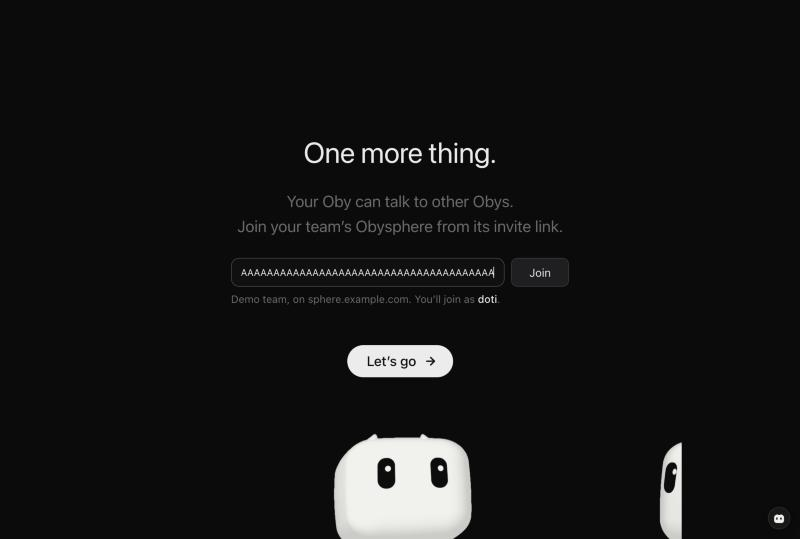
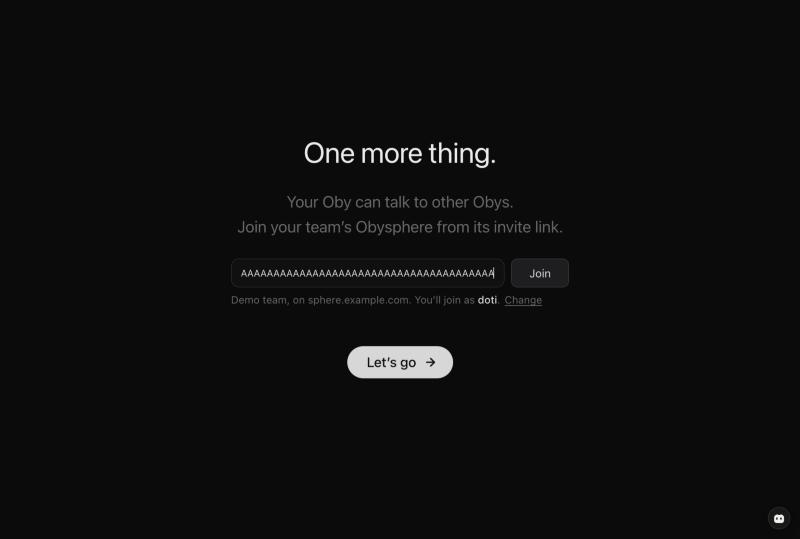
feat(electron): the owner id is changed before the first join, behind obid's PUT /v1/obid/sphere/owner (SPHEREAPP-9)
Two strangers whose Macs share a login name would join as the same
owner. The join line has Change while obid serves the add-only route
(asked once with an empty body, which changes nothing); where obid
answers 404 the id stays read-only. A 409 says it can't change once
joined; an id that isn't a slug says so and sends nothing.

diff --git a/apps/electron/src/renderer/src/JoinLink.tsx b/apps/electron/src/renderer/src/JoinLink.tsx
@@ -9,19 +9,76 @@ import { ME } from './spheres';
 // dialog included, signed with the app's key after the owner's click. Before any key is made the
 // owner id it will act for shows here, and again in main's dialog.
 
-// The owner id obid acts for now, or null until obid says (on the mock: the mock's own)
+// The owner id obid acts for now, or null until obid says (on the mock: the mock's own). editable:
+// obid has the route that changes it before a first join (PUT /v1/obid/sphere/owner, add-only):
+// asked once with an empty body, which changes nothing (422 where it's served, 404 where it isn't).
+// change: the owner's new id, kept by obid, or why not in words.
+const OWNER_ROUTE = '/v1/obid/sphere/owner';
+export const OWNER_ID = /^[a-z0-9]([a-z0-9-]{0,61}[a-z0-9])?$/;
 export function useOwnerId() {
   const [owner, setOwner] = useState<string | null>(onObid ? null : ME.name.toLowerCase());
+  const [editable, setEditable] = useState(!onObid);
   useEffect(() => {
     if (!onObid || !window.app?.obid) return;
     let gone = false;
-    void window.app.obid.call('GET', '/v1/obid/sphere').then((a) => {
+    const call = window.app.obid.call;
+    void call('GET', '/v1/obid/sphere').then((a) => {
       if (gone || a.status !== 200) return;
-      try { const o = (JSON.parse(a.text) as { owner?: unknown }).owner; if (typeof o === 'string' && o) setOwner(o); } catch { /* none shown */ }
+      try {
+        const m = JSON.parse(a.text) as { owner?: unknown; state?: unknown };
+        if (typeof m.owner === 'string' && m.owner) setOwner(m.owner);
+        // only before a first join; a membership keeps the owner it joined as
+        if (m.state === 'none') void call('PUT', OWNER_ROUTE, {}).then((p) => { if (!gone) setEditable(p.status !== 404 && p.status !== 405 && p.status !== 0); }, () => {});
+      } catch { /* none shown */ }
     }, () => {});
     return () => { gone = true; };
   }, []);
-  return owner;
+  const change = async (to: string): Promise<string | null> => {
+    const next = to.trim().toLowerCase();
+    if (!OWNER_ID.test(next)) return 'An owner id is lowercase letters, digits and hyphens.';
+    if (!onObid || !window.app?.obid) { setOwner(next); return null; }
+    const a = await window.app.obid.call('PUT', OWNER_ROUTE, { owner: next });
+    if (a.status >= 200 && a.status < 300) {
+      try { const o = (JSON.parse(a.text) as { owner?: unknown }).owner; setOwner(typeof o === 'string' && o ? o : next); } catch { setOwner(next); }
+      return null;
+    }
+    if (a.status === 409) { setEditable(false); return 'It can’t change once you’ve joined an Obysphere.'; }
+    if (a.status === 404) { setEditable(false); return 'This Oby can’t change it yet.'; }
+    try { return String((JSON.parse(a.text) as { error?: unknown }).error ?? '') || 'obid didn’t take it.'; } catch { return 'obid didn’t take it.'; }
+  };
+  return { owner, editable, change };
+}
+
+// The owner id a join acts for, with Change while obid can change it (SPHEREAPP-9)
+function OwnerLine({ who, invite }: { who: ReturnType<typeof useOwnerId>; invite: { name: string; host: string } }) {
+  const [editing, setEditing] = useState<string | null>(null);
+  const [problem, setProblem] = useState<string | null>(null);
+  const save = async () => {
+    if (editing === null) return;
+    const why = await who.change(editing);
+    setProblem(why);
+    if (!why) setEditing(null);
+  };
+  if (editing !== null) {
+    return <>
+      <span className="join-link-owner">
+        <span className="wl-sub">Join as</span>
+        <input className="modal-field setup-field" value={editing} autoFocus aria-label="Owner id" maxLength={63}
+          onChange={(e) => { setEditing(e.target.value); setProblem(null); }}
+          onKeyDown={(e) => { if (e.key === 'Enter') { e.preventDefault(); void save(); } if (e.key === 'Escape') { e.stopPropagation(); setEditing(null); setProblem(null); } }}
+          autoComplete="off" autoCapitalize="off" autoCorrect="off" spellCheck={false} />
+        <button type="button" className="set-button" onClick={() => void save()}>Save</button>
+      </span>
+      {problem && <span className="wl-sub is-problem join-link-under" role="alert">{problem}</span>}
+    </>;
+  }
+  return (
+    <span className="wl-sub join-link-under">
+      {invite.name}, on {invite.host}. You’ll join as <strong>{who.owner}</strong>.
+      {who.editable && <> <button type="button" className="join-link-change" onClick={() => setEditing(who.owner ?? '')}>Change</button></>}
+      {problem && <span className="is-problem" role="alert"> {problem}</span>}
+    </span>
+  );
 }
 
 const NOT_A_LINK = 'This isn’t an Obysphere invite link.';
@@ -30,7 +87,7 @@ export function useJoinLink() {
   const [text, setText] = useState('');
   const [said, setSaid] = useState<{ joined?: string; problem?: string }>({});
   const [busy, setBusy] = useState(false);
-  const owner = useOwnerId();
+  const who = useOwnerId();
   const invite = parseInvite(text);
   const problem = said.problem ?? (text.trim() && !invite ? NOT_A_LINK : null);
   const join = async () => {
@@ -46,13 +103,13 @@ export function useJoinLink() {
     else setSaid({});
   };
   const change = (t: string) => { setText(t); setSaid({}); };
-  return { text, setText: change, invite, owner, problem, joined: said.joined ?? null, busy, join };
+  return { text, setText: change, invite, who, problem, joined: said.joined ?? null, busy, join };
 }
 
 // The field and its Join, then what's true: who it joins as, why not, or that it's in
 export function JoinLink({ link, onb = false }: { link: ReturnType<typeof useJoinLink>; onb?: boolean }) {
   const why = useId();
-  const { text, setText, invite, owner, problem, joined, busy, join } = link;
+  const { text, setText, invite, who, problem, joined, busy, join } = link;
   return (
     <div className={`join-link${onb ? ' is-onb' : ''}`}>
       <div className="join-link-line">
@@ -64,7 +121,7 @@ export function JoinLink({ link, onb = false }: { link: ReturnType<typeof useJoi
       </div>
       {problem ? <span id={why} className="wl-sub is-problem join-link-under" role="alert">{problem}</span>
         : joined ? <span className="wl-sub join-link-under" role="status">You’re in {joined}.</span>
-          : invite && owner ? <span className="wl-sub join-link-under">{invite.name}, on {invite.host}. You’ll join as <strong>{owner}</strong>.</span>
+          : invite && who.owner ? <OwnerLine who={who} invite={invite} />
             : null}
     </div>
   );

diff --git a/apps/electron/src/renderer/src/test/sphereApp.test.tsx b/apps/electron/src/renderer/src/test/sphereApp.test.tsx
@@ -11,11 +11,15 @@ vi.mock('../Oby', () => ({ default: ({ onDrawn }: { onDrawn?: () => void }) => {
 const LINK = `https://sphere.example.com/join#sphere=demo&name=Demo%20team&by=dmytro&id=9187a87a-3126-424c-8861-8811bba1a5ec&secret=${'A'.repeat(43)}`;
 // what obid answers, by "METHOD path"; anything else 404
 let answers: Record<string, unknown> = {};
+// a status other than 200 for an answer, by "METHOD path"
+let statuses: Record<string, number> = {};
 const calls: string[] = [];
-const call = vi.fn(async (method: string, path: string) => {
+const bodies: unknown[] = [];
+const call = vi.fn(async (method: string, path: string, body?: unknown) => {
   calls.push(`${method} ${path}`);
+  bodies.push(body);
   const a = answers[`${method} ${path}`];
-  return a === undefined ? { status: 404, text: '{"error":"Not found."}' } : { status: 200, text: JSON.stringify(a) };
+  return a === undefined ? { status: 404, text: '{"error":"Not found."}' } : { status: statuses[`${method} ${path}`] ?? 200, text: JSON.stringify(a) };
 });
 const sphereJoin = vi.fn();
 const sphereHandoff = vi.fn();
@@ -27,7 +31,7 @@ beforeEach(() => {
   vi.stubGlobal('matchMedia', () => ({ matches: true }));
   vi.stubGlobal('location', { search: '' });
   answers = { 'GET /v1/obid/sphere': { state: 'none', url: null, sphere: null, owner: 'wellington' }, 'GET /v1/repos': { repos: [] } };
-  calls.length = 0;
+  calls.length = 0; bodies.length = 0; statuses = {};
   sphereJoin.mockReset(); sphereHandoff.mockReset();
   (window as unknown as { app: unknown }).app = { obid: { call }, sphereJoin, sphereHandoff, openExternal: vi.fn() };
   localStorage.clear();
@@ -86,6 +90,57 @@ describe('SPHEREAPP-3: first run joins from a link', () => {
     sphereJoin.mockResolvedValueOnce({ kind: 'cancelled' });
     await act(async () => button('Join')!.click());
     expect(host.querySelector('[role="alert"], [role="status"]')).toBeNull();
+  });
+});
+
+describe('SPHEREAPP-9: the owner id, changed before the first join', () => {
+  async function step() {
+    vi.stubGlobal('location', { search: '?onboarding=sphere' });
+    const { default: FirstRun } = await import('../FirstRun');
+    await act(async () => root.render(<FirstRun />));
+    await settle();
+    await type(field('Invite link'), LINK);
+  }
+
+  it('sphereapp_9_without_obid_s_route_the_owner_id_shows_read_only', async () => {
+    await step();
+    expect(host.querySelector('.join-link-under')!.textContent).toBe('Demo team, on sphere.example.com. You’ll join as wellington.');
+    expect(button('Change')).toBeUndefined();
+    // obid was asked once, with a body that changes nothing
+    expect(calls.filter((c) => c === 'PUT /v1/obid/sphere/owner')).toHaveLength(1);
+    expect(bodies[calls.indexOf('PUT /v1/obid/sphere/owner')]).toEqual({});
+  });
+
+  it('sphereapp_9_with_obid_s_route_the_owner_changes_it_before_joining', async () => {
+    answers['PUT /v1/obid/sphere/owner'] = { error: 'owner is required' };
+    statuses['PUT /v1/obid/sphere/owner'] = 422;
+    await step();
+    await act(async () => button('Change')!.click());
+    // not an id: words, and nothing sent
+    await type(field('Owner id'), 'Dana Smith!');
+    const sent = calls.length;
+    await act(async () => button('Save')!.click());
+    expect(host.querySelector('[role="alert"]')!.textContent).toBe('An owner id is lowercase letters, digits and hyphens.');
+    expect(calls.length).toBe(sent);
+    // an id: obid keeps it, and the line says it
+    answers['PUT /v1/obid/sphere/owner'] = { owner: 'dana-smith' };
+    statuses['PUT /v1/obid/sphere/owner'] = 200;
+    await type(field('Owner id'), 'Dana-Smith');
+    await act(async () => button('Save')!.click());
+    expect(bodies.at(-1)).toEqual({ owner: 'dana-smith' });
+    expect(host.querySelector('.join-link-under')!.textContent).toBe('Demo team, on sphere.example.com. You’ll join as dana-smith. Change');
+  });
+
+  it('sphereapp_9: once joined, obid’s 409 says it can’t change', async () => {
+    answers['PUT /v1/obid/sphere/owner'] = { error: 'owner is required' };
+    statuses['PUT /v1/obid/sphere/owner'] = 422;
+    await step();
+    await act(async () => button('Change')!.click());
+    answers['PUT /v1/obid/sphere/owner'] = { error: 'joined already' };
+    statuses['PUT /v1/obid/sphere/owner'] = 409;
+    await type(field('Owner id'), 'dana');
+    await act(async () => button('Save')!.click());
+    expect(host.querySelector('[role="alert"]')!.textContent).toBe('It can’t change once you’ve joined an Obysphere.');
   });
 });
 

diff --git a/apps/electron/src/renderer/src/app.css b/apps/electron/src/renderer/src/app.css
@@ -2341,6 +2341,12 @@ button.sphere-logo-badge:hover { color: var(--ink); background: #3a3a39; }
 .join-link-line .set-button { flex: none; height: 36px; min-width: 72px; justify-content: center; }
 .join-link-under { display: block; margin-top: 6px; white-space: normal; overflow-wrap: anywhere; }
 .join-link-under strong { color: var(--ink); font-weight: 500; }
+/* the owner id a join acts for: Change, a quiet word after it; changing it, a small field and Save */
+.join-link-change { padding: 0 2px; color: var(--muted); font-size: inherit; text-decoration: underline; text-underline-offset: 2px; }
+.join-link-change:hover { color: var(--ink); }
+.join-link-owner { display: flex; align-items: center; gap: 8px; margin-top: 6px; }
+.join-link-owner .setup-field { width: 180px; height: 30px; }
+.join-link-owner .set-button { height: 30px; }
 .onb-join { width: min(436px, 100%); margin-top: 16px; }
 .join-link.is-onb .wl-sub { font-size: var(--text-md); }
 .set-row .join-link { flex: 1; min-width: 0; }

diff --git a/docs/contracts/sphere-app.md b/docs/contracts/sphere-app.md
@@ -5,7 +5,7 @@ The business behavior contract for what the Electron app does in an Obysphere at
 ## Feature and status
 
 - **Outcome:** A stranger joins their team's Obysphere from its invite link inside Oby, on first run or in Settings, seeing who they will join as before anything is made. Every member may hand every other a task, including members who joined before handoffs. An owner hands a member's Oby a task from that member's thread and reads what comes back there. An Oby whose admin took it out says so instead of vanishing.
-- **Status:** **Implemented** in the Electron app (`apps/electron`). The owner id is shown, not yet changeable: obid has no route to change it before the first join (open question, below). A revoke's reason reads obid's add-only `revokedReason` once obid sends it.
+- **Status:** **Implemented** in the Electron app (`apps/electron`). Changing the owner id waits on obid's add-only `PUT /v1/obid/sphere/owner` (SPHEREAPP-9): until obid serves it, the id shows read-only. A revoke's reason reads obid's add-only `revokedReason` once obid sends it.
 - **Scope:** the app only. **Out of scope:** making an Obysphere, inviting, and an admin removing a member (the Obysphere's own site does those); handing over a task by talking to Oby (`oby_handoff`, #2428's conversation tool); comparing keys.
 
 ## Behavior
@@ -23,6 +23,7 @@ The business behavior contract for what the Electron app does in an Obysphere at
 - A text that isn't an invite link says so under the field, and Join stays off. A link shows its Obysphere's name, its host and the owner id obid would join as (`GET /v1/obid/sphere`'s `owner`) before any key is made.
 - Join hands main the link. Main reads it as `oby://` links are read, opens the same native Join dialog (its detail now also says `You’ll join as <owner>.`), and only the owner's Join there joins, signing with the app's owner key. The page shows `You’re in <name>.`, or why it failed in main's words; the dialog's Cancel shows nothing.
 - In an Obysphere, the Settings page shows its name and the owner id instead of the field.
+- **Changing the owner id.** Two strangers whose Macs share a login name, with no `gh` signed in, would join as the same owner, so the id is the owner's to change before their first join. While obid's membership is `none`, the page asks obid once, with `PUT /v1/obid/sphere/owner` and an empty body (which changes nothing: `422`); where obid answers `404` the id shows read-only. Where it's served, the owner line has Change: a field and Save. An id that isn't lowercase letters, digits and single hyphens (1 to 63, the spec's slug) says so and sends nothing; one obid keeps shows on the line, and main's Join dialog says it. obid's `409` (a membership exists) says `It can’t change once you’ve joined an Obysphere.`
 
 ### The members rule and a membership grow
 
@@ -62,7 +63,7 @@ The business behavior contract for what the Electron app does in an Obysphere at
 
 - IPC: `sphere-join` (a string: the link) and `sphere-handoff` (`{to, goal, repo, base}`), in [ipc.md](ipc.md).
 - obid: `GET /v1/obid/sphere`, `GET /v1/obid/sphere/members`, `POST /v1/obid/sphere/requests`, `PUT /v1/obid/sphere/membership`, `GET /v1/repos`.
-- **Open question:** changing the owner id before the first join needs an obid route; until one exists the app shows it only.
+- obid's `PUT /v1/obid/sphere/owner` `{owner}` (add-only, B1's): `2xx` with the owner kept, `409` once any membership exists, `422` for a body without a valid owner; `404` from an obid without it.
 
 ## Acceptance scenarios
 
@@ -75,9 +76,11 @@ The business behavior contract for what the Electron app does in an Obysphere at
 - **SPHEREAPP-7** Given a handed task's exchange, then the thread's line under it says where it stands in words: waiting, said yes, the result came back, or each decline's reason. `sphereapp_7_…` (`sphereApp.test.tsx`).
 - **SPHEREAPP-8** Given a joined Obysphere on obid, then the app never asks obid for its room, so the room never opens, and the message box offers no other Obys. `sphereapp_8_…` (`sphereApp.test.tsx`).
 
+- **SPHEREAPP-9** Given a link pasted before a first join, when obid doesn't serve `PUT /v1/obid/sphere/owner`, then the owner id shows with no Change; when it does, Change and Save send `{owner}` lower-cased and the line shows the id obid kept; an id that isn't one says so and sends nothing; `409` says it can't change once joined. `sphereapp_9_…` (`sphereApp.test.tsx`).
+
 ### Test it when it's done
 
-1. On a fresh home with no `gh` login, open first run's Obysphere step, paste a local Obysphere's invite link: the owner id shows; Join, then the dialog's Join; the side panel shows the Obysphere.
+1. On a fresh home with no `gh` login, open first run's Obysphere step, paste a local Obysphere's invite link: the owner id shows; Change it; Join, then the dialog's Join; the side panel shows the Obysphere.
 2. As its admin, Settings › the Obysphere › Let members ask: the rule lists handoffs.
 3. From a member's thread, Hand them a task in a fixture repository; on their Mac, Accept; the result reads in your thread.
 4. Have the admin remove one Oby: its owner sees the line in its settings, not a vanished tile.
